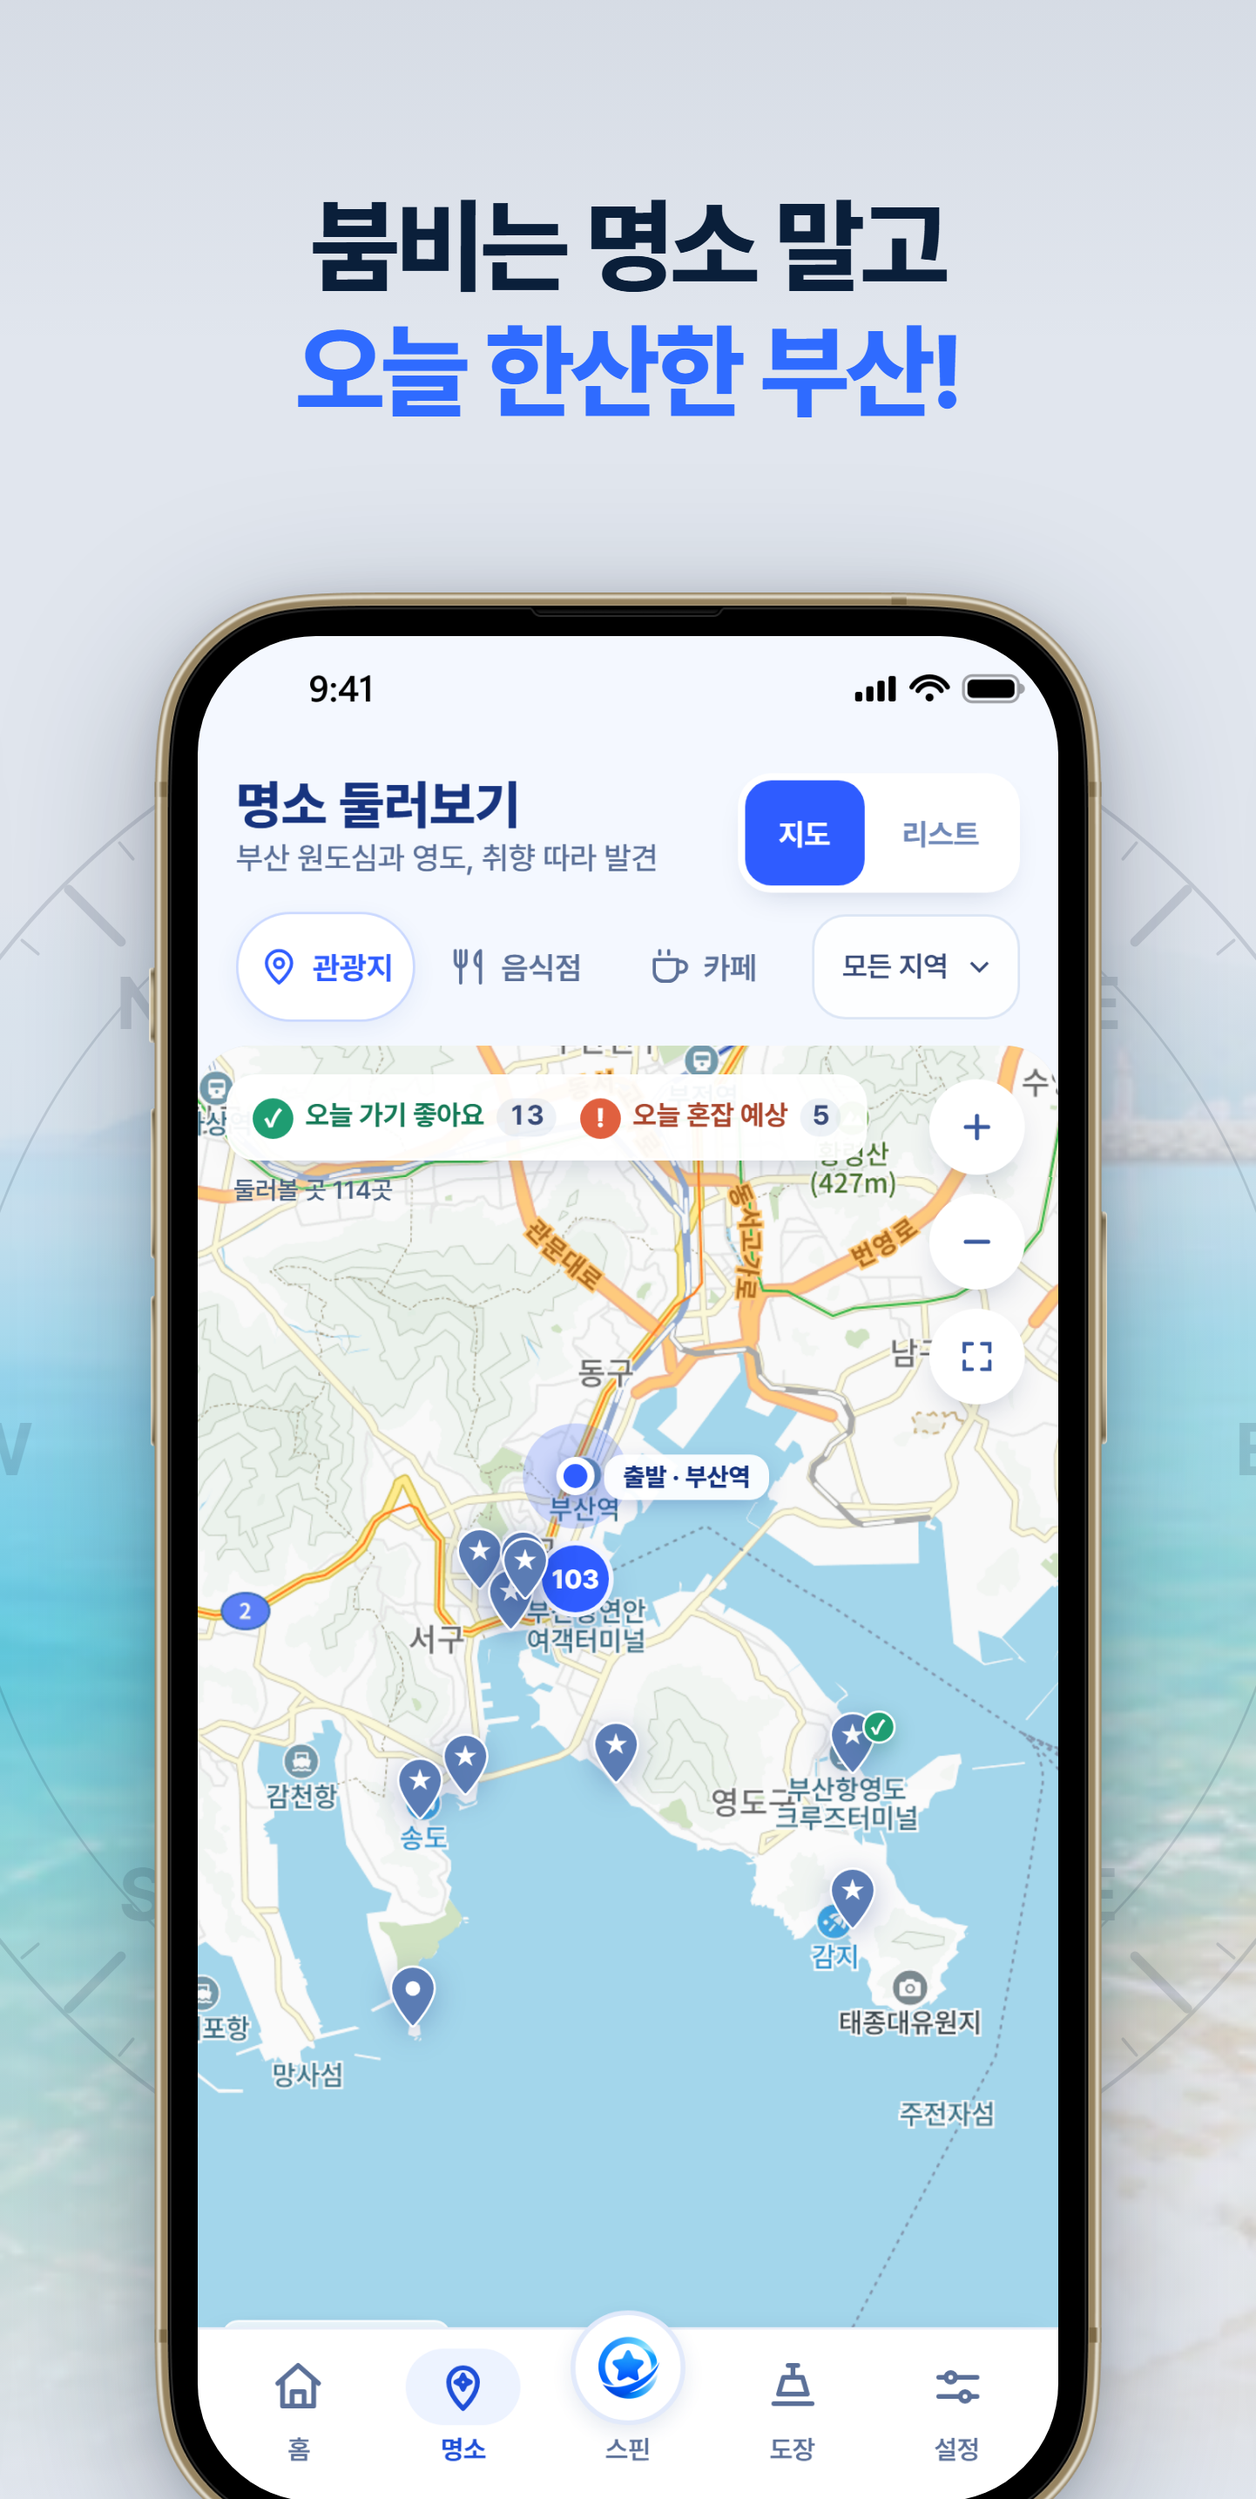
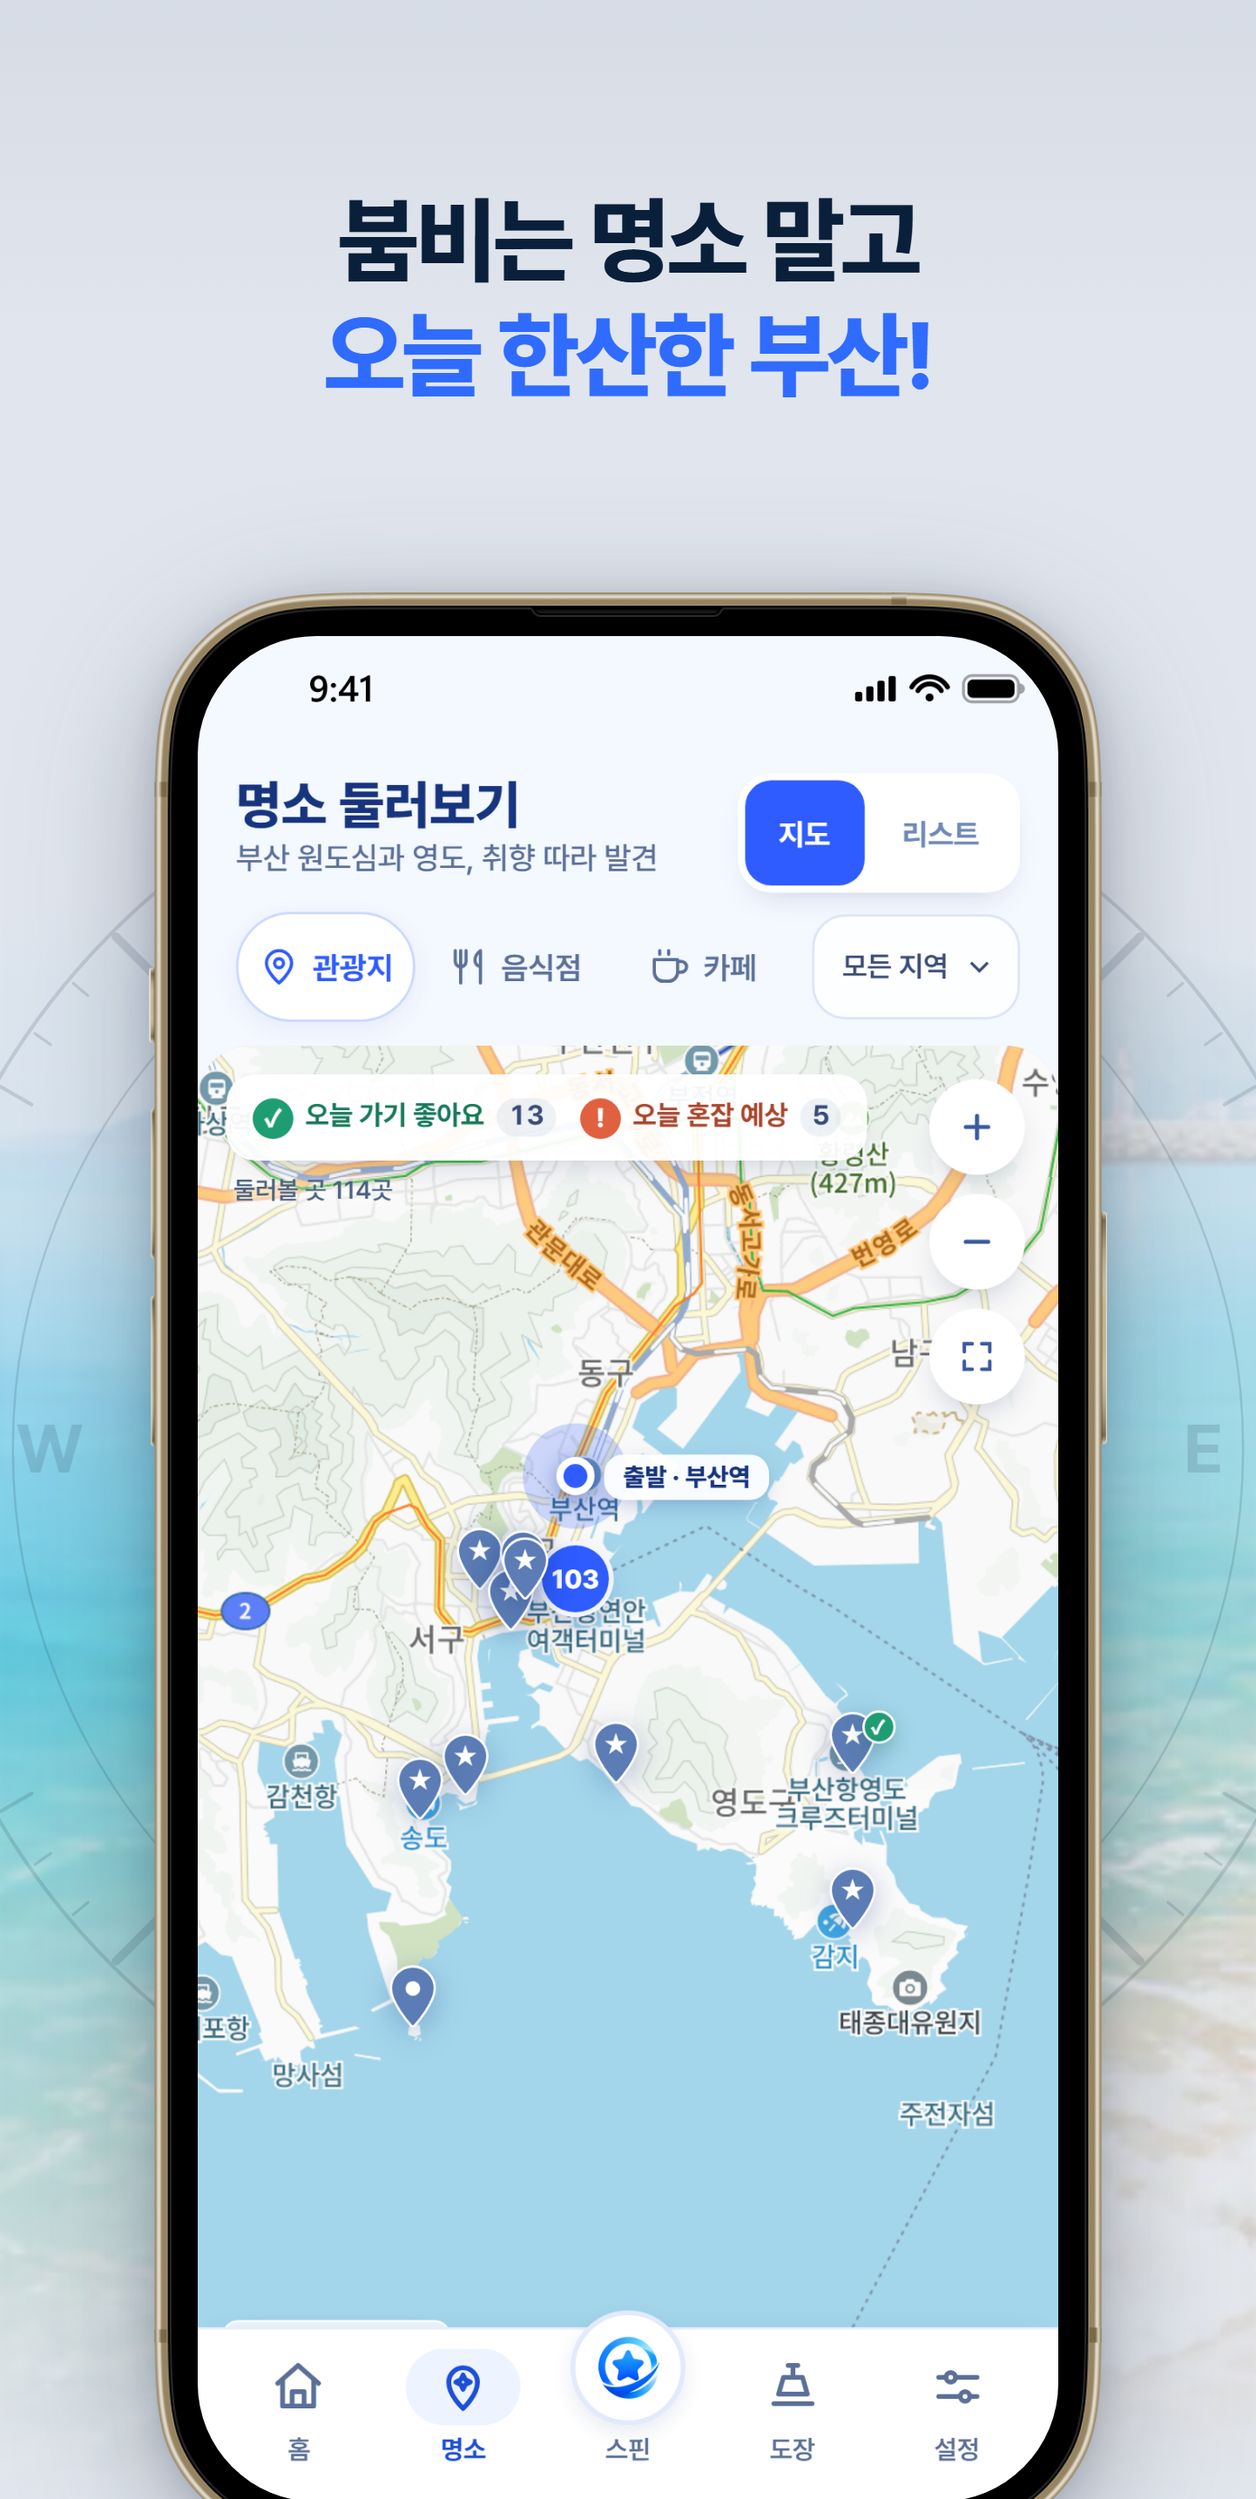
fix(screenshots): PR #22 리뷰 반영 — 캡션 크기 고정·원본 프로젝트 보호
- 글자·그림자·눈금판 크기를 scaleWidth(1320 기준)로 묶어 넓힌 캔버스에서도 App Store 이미지와 같게 한다
- 좌표를 옮긴 프로젝트는 임시 사본(SCREENSHOTS_PROJECT_FILE)으로 넘기고 원본 파일은 쓰지 않는다
- 같은 PNG가 겹치면 실패, 실패 경로에서 next dev 종료를 기다리고 포트가 이미 쓰이면 중단
- 남아 있던 옛 스크린샷 설명(store-listing·fastlane README·55곳 캡션)을 바로잡는다

Claude-Session: https://claude.ai/code/session_01FHbg92VtcZsweCMHCWgbxE

diff --git a/tools/store-screenshots/src/components/editor/slide-canvas.tsx b/tools/store-screenshots/src/components/editor/slide-canvas.tsx
@@ -20,6 +20,7 @@ import {
   ipadW,
   phoneW,
   phoneWSmall,
+  scaleWidth,
   tabletLW,
   tabletPW,
 } from "@/lib/constants";
@@ -542,7 +543,7 @@ function getSlideGeometry(slide: Slide, device: Device, orientation: Orientation
   const fwFrac = widthFn(cW, cH);
   const fwSmallFrac = smallWidthFn(cW, cH);
   const defaults = getDefaultRects(slide.layout, cW, cH, frameAspect, fwFrac, fwSmallFrac);
-  return { cW, cH, Frame, frameAspect, defaults };
+  return { cW, cH, sW: scaleWidth(device, cW), Frame, frameAspect, defaults };
 }
 
 export function getElementTransform(
@@ -626,7 +627,7 @@ export function SlideCanvas({
         overflow: "hidden",
       }}
     >
-      <SlideBackground slide={slide} cW={cW} cH={cH} theme={theme} />
+      <SlideBackground slide={slide} cW={scaleWidth(device, cW)} cH={cH} theme={theme} />
       <SlideElements
         slide={slide}
         device={device}
@@ -733,7 +734,7 @@ export function DeckCanvas({
               overflow: "hidden",
             }}
           >
-            <SlideBackground slide={slide} cW={cW} cH={cH} theme={theme} />
+            <SlideBackground slide={slide} cW={scaleWidth(device, cW)} cH={cH} theme={theme} />
             {showGuides && <ScreenGuide cW={cW} cH={cH} index={index} active={active} />}
           </div>
         );
@@ -1100,7 +1101,8 @@ function SlideElements({
 }) {
   const screenshot = resolveScreenshot(slide.screenshot, locale);
   const screenshotSecondary = resolveScreenshot(slide.screenshotSecondary, locale);
-  const { cW, cH, Frame, frameAspect, defaults } = getSlideGeometry(slide, device, orientation);
+  // 크기 계산은 sW 기준이다 (constants.ts scaleWidth). 위치는 저장된 transform이 정한다.
+  const { cH, sW, Frame, frameAspect, defaults } = getSlideGeometry(slide, device, orientation);
   const inverted = !!slide.inverted;
   const captionRect = rectFor("caption", slide, defaults);
   const deviceRect = rectFor("device", slide, defaults);
@@ -1121,7 +1123,7 @@ function SlideElements({
     const zIndex = saved?.zIndex ?? 4;
     const inner = (
       <Caption
-        cW={cW}
+        cW={sW}
         cH={cH}
         slide={slide}
         theme={theme}
@@ -1202,9 +1204,9 @@ function SlideElements({
               못한다. drop-shadow는 둥근 모서리를 따라가므로 사각 그림자가 생기지
               않는다. 넓고 옅은 것 + 좁고 진한 것 두 겹이라야 접지된 것처럼 보인다.
             */
-            filter: `drop-shadow(0 ${cW * 0.03}px ${cW * 0.06}px rgba(6, 22, 44, 0.26)) drop-shadow(0 ${
-              cW * 0.006
-            }px ${cW * 0.014}px rgba(6, 22, 44, 0.16))`,
+            filter: `drop-shadow(0 ${sW * 0.03}px ${sW * 0.06}px rgba(6, 22, 44, 0.26)) drop-shadow(0 ${
+              sW * 0.006
+            }px ${sW * 0.014}px rgba(6, 22, 44, 0.16))`,
             ...extraStyle,
           }}
         />
@@ -1254,7 +1256,7 @@ function SlideElements({
                 : textElement.align === "left"
                   ? "flex-start"
                   : "center",
-            padding: `${Math.min(cW, cH) * 0.012}px`,
+            padding: `${Math.min(sW, cH) * 0.012}px`,
           }}
         >
           <EditableText
@@ -1267,7 +1269,7 @@ function SlideElements({
             style={{
               width: "100%",
               color: textColor,
-              fontSize: textElement.fontSize ?? Math.min(cW, cH) * 0.06,
+              fontSize: textElement.fontSize ?? Math.min(sW, cH) * 0.06,
               fontWeight: textElement.fontWeight ?? 700,
               lineHeight: 1.05,
               textAlign: textElement.align ?? "center",

diff --git a/tools/store-screenshots/src/lib/constants.ts b/tools/store-screenshots/src/lib/constants.ts
@@ -2,8 +2,17 @@ import type { Device, Orientation, SlideLayout, Theme, ThemeId } from "./types";
 
 // Google Play는 긴 변이 짧은 변의 2배를 넘는 스크린샷을 거부한다(2868 > 2×1320).
 // export-android.mjs가 이 값을 넓혀 같은 iPhone 덱을 Play 규격으로 굽는다 — 요소는 그만큼
-// 오른쪽으로 옮기고, 좌우에는 배경(사진·눈금판)만 더 드러난다. 평소에는 설정하지 않는다.
-const IPHONE_CANVAS_W = Number(process.env.NEXT_PUBLIC_IPHONE_CANVAS_W) || 1320;
+// 오른쪽으로 옮기고, 좌우에는 배경만 더 드러난다. 평소에는 설정하지 않는다.
+const IPHONE_DESIGN_W = 1320;
+const IPHONE_CANVAS_W = Number(process.env.NEXT_PUBLIC_IPHONE_CANVAS_W) || IPHONE_DESIGN_W;
+
+/**
+ * 글자·그림자·눈금판·질감 크기의 기준 폭. 캔버스 폭을 그대로 쓰면 Play용으로 넓힌 캔버스에서
+ * 캡션과 눈금판이 9% 커져 App Store 이미지와 달라진다.
+ */
+export function scaleWidth(device: Device, cW: number) {
+  return device === "iphone" ? Math.min(cW, IPHONE_DESIGN_W) : cW;
+}
 
 // ---------- Canvas dimensions (design at largest required resolution) ----------
 export const CANVAS: Record<Device, { w: number; h: number; wL?: number; hL?: number }> = {

diff --git a/tools/store-screenshots/src/app/api/project/route.ts b/tools/store-screenshots/src/app/api/project/route.ts
@@ -6,8 +6,9 @@ export const dynamic = "force-dynamic";
 
 const PROJECT_FILE = "app-store-screenshots.json";
 
+// export-android.mjs가 좌표를 옮긴 사본을 임시 파일로 넘길 때 쓴다. 원본 프로젝트 파일은 건드리지 않는다.
 function filePath() {
-  return path.join(process.cwd(), PROJECT_FILE);
+  return process.env.SCREENSHOTS_PROJECT_FILE || path.join(process.cwd(), PROJECT_FILE);
 }
 
 export async function GET() {

diff --git a/docs/worklog.md b/docs/worklog.md
@@ -10,7 +10,9 @@
 
 - 요청: Play 스토어에 여백 있는 앱 화면 사진(태블릿 슬롯의 옛 캡처 — 480px 폭 앱 양옆 남색 여백)이 섞여 있으니 전부 없애고 아이폰과 같은 스크린샷으로 통일.
 - `npm run export:android`를 iPhone 덱 기준으로 바꿨다. 결과 5장(`01_spin`~`05_settings`)을 휴대전화·7인치·10인치 폴더에 똑같이 넣는다. 옛 Android 틀 7장·태블릿 캡처 8장·`tools/play-screenshots.py`는 지웠다.
-- **함정 — App Store 이미지는 Play에 그대로 못 올린다.** 1320×2868은 "긴 변 ≤ 짧은 변×2"(2868 > 2640) 위반이다. 가장자리 복사로 넓히면 눈금판 방위 글자·선이 뒤집혀 보인다. 그래서 에디터 캔버스 폭만 `NEXT_PUBLIC_IPHONE_CANVAS_W=1442`로 넓혀 요소를 61px 옮겨 굽는다(`constants.ts`). 앱 화면 영역은 iOS 이미지와 픽셀 차이 0을 확인했다.
+- **함정 — App Store 이미지는 Play에 그대로 못 올린다.** 1320×2868은 "긴 변 ≤ 짧은 변×2"(2868 > 2640) 위반이다. 가장자리 복사로 넓히면 눈금판 방위 글자·선이 뒤집혀 보인다. 그래서 에디터 캔버스 폭만 `NEXT_PUBLIC_IPHONE_CANVAS_W=1442`로 넓혀 요소를 61px 옮겨 굽는다(`constants.ts`). 글자·그림자·눈금판은 캔버스 폭에 비례하므로 `scaleWidth`로 1320 기준에 묶었다(안 묶으면 캡션이 9% 커진다 — PR #22 리뷰 지적). 가운데 1320px은 iOS 이미지와 평균 색 차이 0.2로 같다.
+- **함정 — 좌표 옮긴 프로젝트를 원본 파일에 쓰면 안 된다.** 중간에 죽으면 +61px이 남아 다음 export가 또 더한다. 임시 사본을 `SCREENSHOTS_PROJECT_FILE`로 `api/project`에 넘긴다. Playwright `page.route`로 가로채 봤더니 두 번 모두 01~03이 스핀 한 장으로 똑같이 나왔다(HTTP 캐시가 꺼진 탓으로 보임) → 쓰지 않고, 같은 PNG가 겹치면 실패하게 했다.
+- **함정 — 실패 경로의 `taskkill`을 기다리지 않으면 next dev가 포트에 남는다.** 다음 실행이 환경변수 없는 그 서버에 붙어 android 덱을 굽고, 자동 저장이 원본 파일을 다시 썼다. 종료를 기다리고, 포트가 이미 쓰이면 중단하게 했다. `export-ios.mjs`에도 같은 약점이 있다(이번에는 손대지 않음).
 - 로컬 실행 메모: `tools/store-screenshots`에 playwright가 설치돼 있지 않았다(`npm install --no-save`로 설치). 1.62가 기대하는 헤드리스 셸이 캐시에 없어 캐시의 1223 빌드를 `executablePath`로 넘기는 래퍼로 돌렸다.
 - 대기: **Play Console 수동 교체**(API 액세스 메뉴가 없어 자동 업로드 불가). 기본 스토어 등록정보에서 휴대전화 7장·7인치 4장·10인치 4장을 지우고 새 5장을 올린 뒤 `검토를 위해 변경사항 제출`.
 

diff --git a/fastlane/README.md b/fastlane/README.md
@@ -68,7 +68,10 @@ fastlane/metadata/android/
     └── images/
         ├── icon.png             # 512x512 32비트(RGBA) PNG
         ├── featureGraphic.png   # 1024x500
-        └── phoneScreenshots/    # 2~8장
+        ├── phoneScreenshots/      # 5장, 1442x2868 — App Store와 같은 iPhone 덱
+        ├── sevenInchScreenshots/  # phoneScreenshots와 같은 파일
+        └── tenInchScreenshots/    # phoneScreenshots와 같은 파일
+        # 세 폴더 모두 tools/store-screenshots에서 `npm run export:android`로 만든다
 ```
 
 ### 제출 전 확인할 것
@@ -76,11 +79,9 @@ fastlane/metadata/android/
 - [ ] **스크린샷을 릴리스 서명 빌드로 다시 촬영한다.** 현재 파일은 디버그 빌드를
       에뮬레이터(Pixel 7)에서 찍은 임시본이다. 스토어 이미지와 실제 배포 앱이 달라지면 안 된다.
       (같은 원본을 iOS 스크린샷도 공유하므로 교체하면 양쪽을 함께 다시 만든다.)
-- [ ] **스크린샷 종횡비 확인.** 현재 1080x2400(0.45)으로, Play 문서가 명시하는 1:2~2:1 범위보다
-      길다. 최신 단말 비율이라 실제로는 통과할 가능성이 있으나 업로드 단계에서 거부될 수 있다.
-      거부되면 1080x2160(정확히 1:2)으로 여백을 덧대 재생성한다 — 내용을 잘라내지 말 것.
-- [ ] 스크린샷을 2~8장으로 채운다. 현재 2장(스핀 화면, 명소 지도)이라 최소치는 만족하지만,
-      결과 카드·도장깨기·공유 카드를 더하면 전달력이 올라간다.
+- [x] **스크린샷 종횡비 확인.** 2026-09-11 해소 — 1442x2868(1:1.99)로 Play 규정(긴 변 ≤ 짧은 변×2)을
+      통과한다. App Store 이미지(1320x2868)와 같은 덱에서 캔버스 폭만 넓혀 굽는다.
+- [x] 스크린샷을 2~8장으로 채운다. 2026-09-11 기준 5장(스핀·명소 지도·홈·도장·설정).
 - [ ] `featureGraphic.png`는 마크만 올린 임시안이다. 카피를 넣은 디자인으로 교체할지 판단한다.
 - [ ] 아이콘 원본이 512px뿐이라 상위 해상도가 필요한 곳은 업스케일본이다. 벡터/고해상도 원본이
       확보되면 전부 재생성한다.

diff --git a/docs/play-console-입력값.md b/docs/play-console-입력값.md
@@ -58,14 +58,17 @@ Spindle
 (목록에서 앞 2장이 가장 많이 노출되므로 스핀·지도를 앞에 둡니다.)
 
 **App Store 스크린샷(`fastlane/screenshots/ios/ko/`)과 같은 iPhone 덱에서 굽습니다.**
-기기 틀·캡션·앱 화면은 픽셀 단위로 같고, 캔버스만 좌우 61px씩 넓습니다.
+기기 틀·캡션·앱 화면이 같습니다. 가운데 1320px을 잘라 비교하면 색 차이가 평균 0.2, 최대 8 이하예요.
+캔버스만 좌우 61px씩 넓습니다.
 
 - **왜 넓히나**: App Store 규격 1320×2868은 Play 규정 "긴 변이 짧은 변의 2배를 넘을 수
   없다"(2868 > 2640)에 걸립니다. 1442×2868(1.99배)이면 통과합니다.
 - **왜 이미지 가장자리를 복사해 붙이지 않나**: 배경의 눈금판 방위 글자(W·E)와 선이 뒤집혀
   보입니다. 대신 에디터에서 캔버스를 넓혀 배경을 새로 그립니다.
 - **다시 만들기**: `tools/store-screenshots`에서 `npm run export:android`.
-  휴대전화·태블릿 세 폴더를 한 번에 갈아 끼웁니다.
+  휴대전화·태블릿 세 폴더를 한 번에 갈아 끼웁니다. 원본 `app-store-screenshots.json`은
+  건드리지 않습니다(좌표를 옮긴 임시 사본을 씁니다). iPhone 덱을 고쳤다면 `export:ios`와
+  함께 돌려 두 스토어 이미지를 맞춥니다.
 - **태블릿 슬롯**: 예전에는 480px 폭 앱 양옆에 남색 여백이 찍힌 태블릿 캡처를 따로 올렸습니다.
   지금은 휴대전화와 같은 이미지를 씁니다. Play Console에서 기존 태블릿 이미지를 지우고 같은 5장을
   올리거나, 콘솔이 허용하면 태블릿 슬롯을 비워 둡니다.

diff --git a/docs/store-listing.md b/docs/store-listing.md
@@ -150,7 +150,7 @@ Spindle 자체는 좌표를 전송하지 않지만, **지도 표시에 카카오
 
 ## 4. 제출 전 체크리스트
 
-- [x] Google Play용 휴대전화 스크린샷을 준비하고 실제 화면과 문안을 대조한다. (2026-09-07, 홈·스핀·명소지도·테마·사진뷰어·도장 6장으로 갱신)
+- [x] Google Play용 휴대전화 스크린샷을 준비하고 실제 화면과 문안을 대조한다. (2026-09-11, App Store와 같은 스핀·명소지도·홈·도장·설정 5장으로 통일 — 7인치·10인치 태블릿 슬롯도 같은 5장. `docs/play-console-입력값.md` 그래픽 자산 절)
 - [ ] App Store용 기기별 스크린샷을 준비하고 실제 화면과 문안을 대조한다.
 - [ ] 512px Google Play 스토어 아이콘을 준비한다.
 - [ ] App Store 아이콘 자산을 준비한다.

diff --git a/APP_STORE_RELEASE.md b/APP_STORE_RELEASE.md
@@ -287,7 +287,7 @@ CI는 macOS 러너에서 `cap sync ios`를 다시 돌리므로 이 파일을 알
 | `01_spin.png` | 스핀 | 어디 갈지 고민될 땐 / 휴대폰만 돌리세요! |
 | `02_map.png` | 명소 지도 | 붐비는 명소 말고 / 오늘 한산한 부산! |
 | `03_home.png` | 홈 | 반나절 코스 짜기 / 탭 한 번이면 끝! |
-| `04_stamp.png` | 도장깨기 | 원도심 55곳 / 도장깨기 시작! |
+| `04_stamp.png` | 도장깨기 | 원도심 48곳 / 도장깨기 시작! |
 | `05_settings.png` | 설정 | 켜자마자 바로 / 부산 여행 시작! |
 
 ### 2026-09-02에 고친 것
